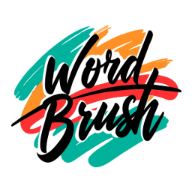
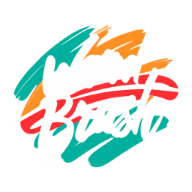
style: add landing page background, font and color

diff --git a/app/routes/_marketing._index/route.tsx b/app/routes/_marketing._index/route.tsx
@@ -1,24 +1,51 @@
 import { Link } from "@remix-run/react"
+import clsx from "clsx"
 import { route } from "routes-gen"
 
 export default function Index() {
   return (
-    <div className="flex h-full flex-col items-center justify-center gap-y-4 text-center">
-      <div className="text-center">
-        <h1 className="text-5xl font-black leading-6 text-gray-800">
-          Bring your words to life
-        </h1>
-        <p className="mt-4 text-2xl font-light text-gray-400">
-          Transform your writing into beautiful visuals to publish on your blog,
-          your novel, and more.
-        </p>
+    <>
+      <div className="relative flex h-full items-center justify-start bg-[#185353] bg-cover bg-right">
+        <div
+          className={clsx(
+            "absolute inset-0",
+            "after:pointer-events-none after:absolute after:bottom-0 after:left-0 after:h-1/6 after:w-full after:bg-gradient-to-t after:from-[#185353] after:to-transparent after:content-['']",
+          )}
+        >
+          <img
+            alt=""
+            className="h-full w-full object-cover object-center"
+            src="/assets/images/painting.webp"
+          />
+
+          <div
+            aria-hidden="true"
+            className="absolute inset-0 bg-gray-400 mix-blend-multiply transition-all md:bg-gray-200"
+          />
+        </div>
+        <div className="z-10 m-auto w-4/5">
+          <div className="flex max-w-2xl flex-col gap-y-10 text-center md:text-left">
+            <div>
+              <h1 className="font-headline text-5xl text-white">
+                Bring your words to life
+              </h1>
+              <p className="mt-4 text-lg font-light text-gray-200">
+                Transform your writing into beautiful visuals to publish
+                alongside your articles, newsletters, social media and more.
+              </p>
+            </div>
+            <div>
+              <Link
+                className="background-animated rounded-xl px-10 py-3 font-semibold text-white shadow-xl transition-all duration-500 hover:scale-110 focus-visible:outline focus-visible:outline-2 focus-visible:outline-offset-2 focus-visible:outline-gray-600"
+                to={route("/login")}
+              >
+                Create your first image ✨
+              </Link>
+            </div>
+          </div>
+        </div>
       </div>
-      <Link
-        className="background-animated rounded-xl px-12 py-4 text-xl font-semibold text-white shadow-xl transition-all duration-500 hover:scale-110 focus-visible:outline focus-visible:outline-2 focus-visible:outline-offset-2 focus-visible:outline-gray-600"
-        to={route("/login")}
-      >
-        Create your first image ✨
-      </Link>
-    </div>
+      <div className="h-screen bg-[#185353]" />
+    </>
   )
 }

diff --git a/app/routes/_marketing/route.tsx b/app/routes/_marketing/route.tsx
@@ -1,33 +1,45 @@
-import { Link, Outlet } from "@remix-run/react"
+import { Link, Outlet, useLocation } from "@remix-run/react"
+import clsx from "clsx"
 import { route } from "routes-gen"
 
 export default function Route() {
+  const location = useLocation()
+  const isIndex = location.pathname === "/"
+
   return (
     <>
       <header className="absolute inset-x-0 top-0 z-50">
         <nav
           aria-label="Global"
-          className="flex items-start justify-between p-6 lg:px-8"
+          className="flex items-center justify-between p-6 lg:px-8"
         >
           <div className="flex lg:flex-1">
             <Link className="-m-1.5 p-1.5" to={route("/")}>
-              <span className="sr-only">Your Company</span>
-              <img
-                alt=""
-                className="h-16 w-auto"
-                src="/assets/images/logo.png"
-              />
+              <span
+                className={clsx(
+                  "font-headline text-xl md:text-3xl",
+                  isIndex ? "text-white" : "text-black",
+                )}
+              >
+                Wordbrush
+              </span>
             </Link>
           </div>
           <div className="flex gap-x-12">
             <Link
-              className="text-sm font-semibold leading-6 text-gray-800"
+              className={clsx(
+                "text-sm font-semibold leading-6",
+                isIndex ? "text-gray-200" : "text-black",
+              )}
               to={route("/pricing")}
             >
               Pricing
             </Link>
             <Link
-              className="text-sm font-semibold leading-6 text-gray-800"
+              className={clsx(
+                "text-sm font-semibold leading-6",
+                isIndex ? "text-gray-200" : "text-black",
+              )}
               to={route("/login")}
             >
               Log in <span aria-hidden="true">&rarr;</span>

diff --git a/app/styles/index.css b/app/styles/index.css
@@ -14,12 +14,22 @@ body {
     sans-serif;
 }
 
+.font-headline {
+  font-family: "Abril Fatface", serif;
+  font-weight: 400;
+  font-style: normal;
+}
+
 .background-animated {
   animation: animated-background 6s ease infinite reverse;
   background: -webkit-linear-gradient(60deg, #fe3032, #fe9125, #00b19c);
   background: linear-gradient(60deg, #fe3032, #fe9125, #00b19c);
   background-position: 0% 0%;
   background-size: 240% 240%;
+}
+
+.background-animated:hover {
+  animation-duration: 2s;
 }
 
 @keyframes animated-background {
@@ -32,8 +42,4 @@ body {
   100% {
     background-position: 0% 50%;
   }
-}
-
-.background-animated:hover {
-  animation-duration: 2s;
 }

diff --git a/app/routes/_marketing.pricing/route.tsx b/app/routes/_marketing.pricing/route.tsx
@@ -57,10 +57,10 @@ export default function Route() {
   return (
     <div className="px-6 py-24 sm:py-32 lg:px-8">
       <div className="mx-auto mb-20 max-w-2xl text-center lg:max-w-4xl">
-        <h2 className="text-5xl font-black tracking-tight text-gray-900">
+        <h2 className="font-headline text-6xl text-gray-900">
           Start creating today
         </h2>
-        <h3 className="mt-4 text-2xl font-light text-gray-600">
+        <h3 className="mt-4 text-xl font-light text-gray-600">
           Start with 3 free images — no credit card required. Then buy more as
           you go.
         </h3>

diff --git a/app/routes/_auth/route.tsx b/app/routes/_auth/route.tsx
@@ -25,8 +25,8 @@ export default function Route() {
         <div className="relative hidden w-0 flex-1 lg:block">
           <img
             alt=""
-            className="absolute inset-0 h-full w-full object-cover"
-            src="https://images.unsplash.com/photo-1496917756835-20cb06e75b4e?ixlib=rb-1.2.1&ixid=eyJhcHBfaWQiOjEyMDd9&auto=format&fit=crop&w=1908&q=80"
+            className="absolute inset-0 h-full w-full object-cover object-bottom"
+            src="/assets/images/flowers.webp"
           />
         </div>
       </div>

diff --git a/app/root.tsx b/app/root.tsx
@@ -33,8 +33,8 @@ export const links: LinksFunction = () => [
   { href: stylesheet, rel: "stylesheet" },
   { href: "https://fonts.googleapis.com", rel: "preconnect" },
   {
-    href: "https://fonts.googleapis.com/css2?family=Inter:wght@100;200;300;400;500;600;700;800;900&display=swap",
-    // Inter
+    // Inter and Abril Fatface
+    href: "https://fonts.googleapis.com/css2?family=Abril+Fatface&family=Inter:wght@100;200;300;400;500;600;700;800;900&display=swap",
     rel: "stylesheet",
   },
 ]
